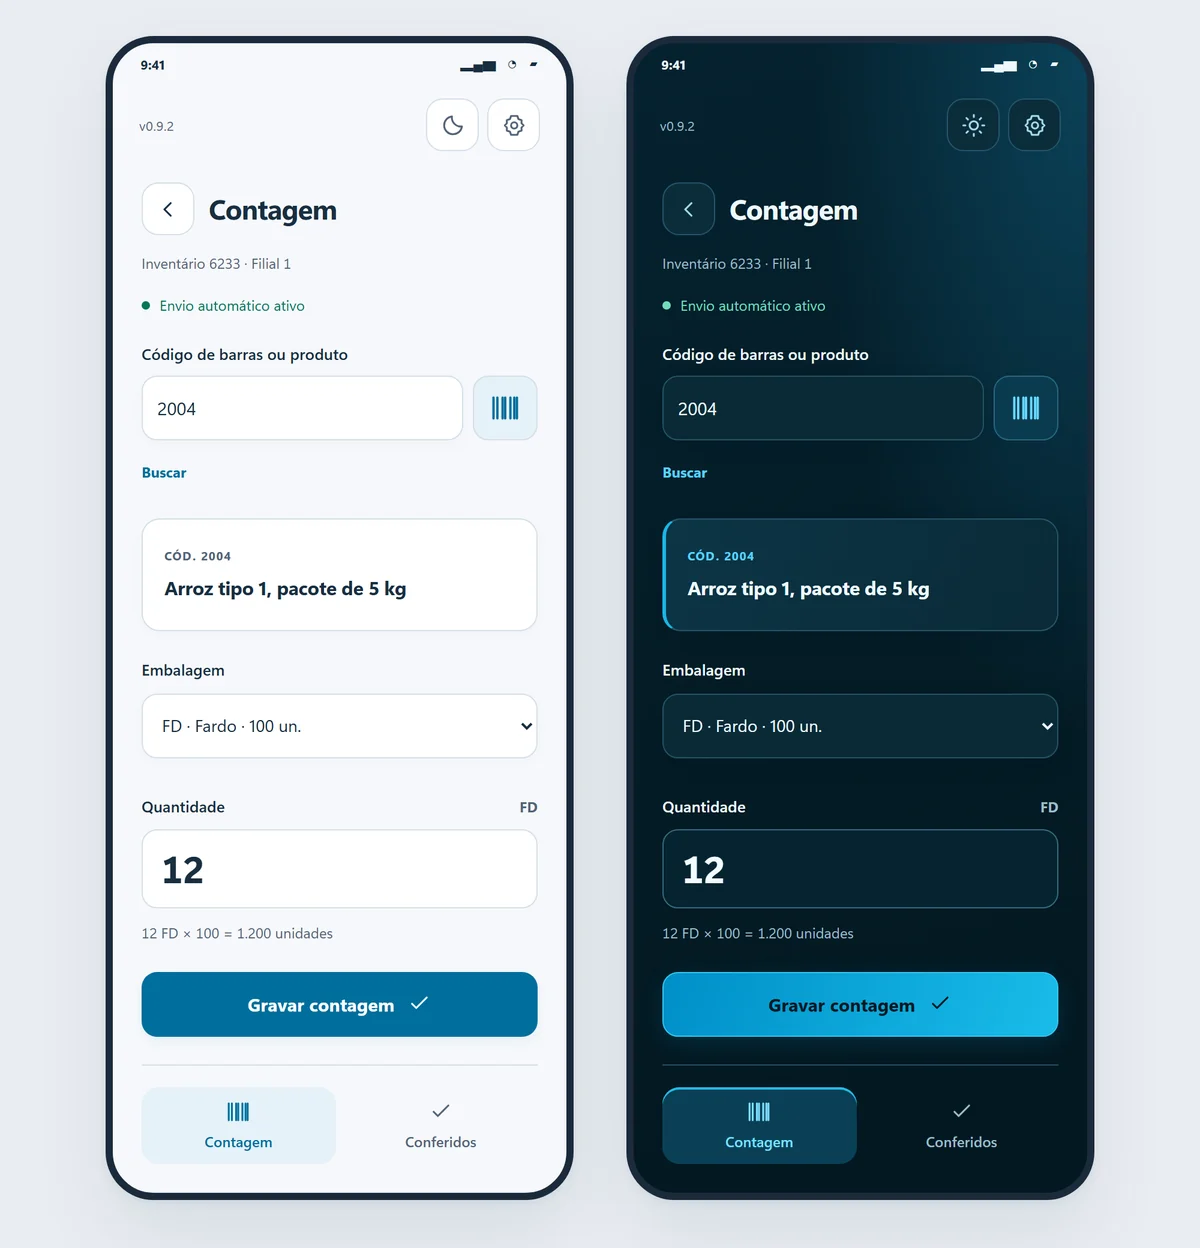
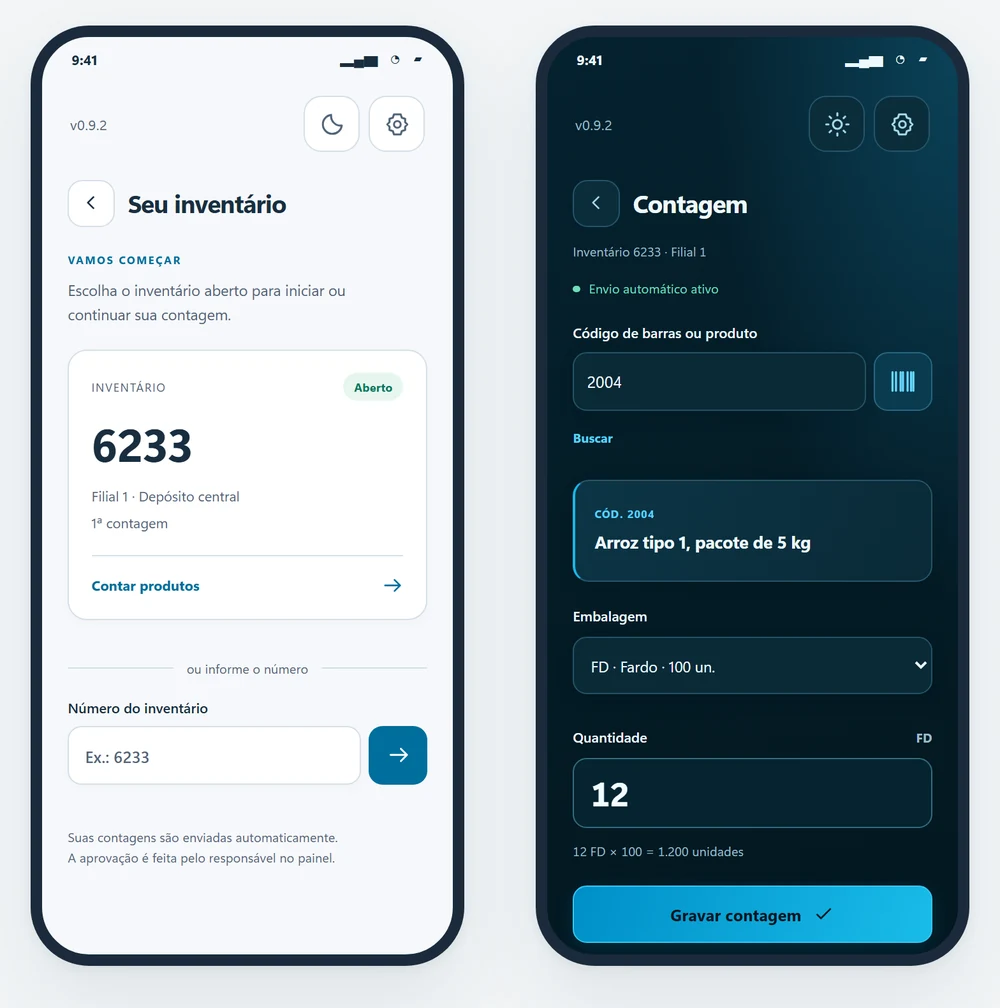
RBCount: telas em proporcao de celular (inventario no tema claro e contagem no escuro), imagem menor e sem moldura

diff --git a/index.html b/index.html
@@ -124,7 +124,8 @@ p{margin:0}
 .telas figure{margin:0}
 .telas img{width:100%;height:auto;border-radius:8px;box-shadow:0 0 0 1px var(--linha),0 18px 40px -20px rgba(14,34,51,.35)}
 .telas a{display:block}
-.telas.app{max-width:560px}
+.telas.app{max-width:500px}
+.telas.app img{box-shadow:none;border-radius:0}
 .telas figcaption{font-size:14px;color:var(--tinta-2);margin-top:10px}
 .tambem{margin-top:8px;padding:28px 32px;background:var(--branco);border-left:6px solid var(--azul);display:grid;grid-template-columns:auto 1fr;gap:12px 32px;align-items:baseline}
 .tambem h3{font-size:34px;color:var(--marinho)}
@@ -362,8 +363,8 @@ table.rotinas{width:100%;border-collapse:collapse;margin-top:56px;font-size:17px
           </ul>
           <div class="telas app">
             <figure>
-              <a href="assets/count-app.webp" target="_blank" rel="noopener" aria-label="Abrir a imagem ampliada"><img src="assets/count-app.webp" alt="Tela de contagem do aplicativo RBCount nos temas claro e escuro: código do produto, embalagem, quantidade e conversão em unidades" width="1200" height="1248" loading="lazy"></a>
-              <figcaption>Contagem no aplicativo: o conferente lê o código, escolhe a embalagem e grava.</figcaption>
+              <a href="assets/count-app.webp" target="_blank" rel="noopener" aria-label="Abrir a imagem ampliada"><img src="assets/count-app.webp" alt="Duas telas do aplicativo RBCount no celular: escolha do inventário, no tema claro, e contagem de um produto com embalagem, quantidade e conversão em unidades, no tema escuro" width="1000" height="1008" loading="lazy"></a>
+              <figcaption>No celular: o conferente escolhe o inventário, lê o código, informa a embalagem e grava.</figcaption>
             </figure>
           </div>
           <p class="reservado">Código fechado. Demonstração por agendamento.</p>
